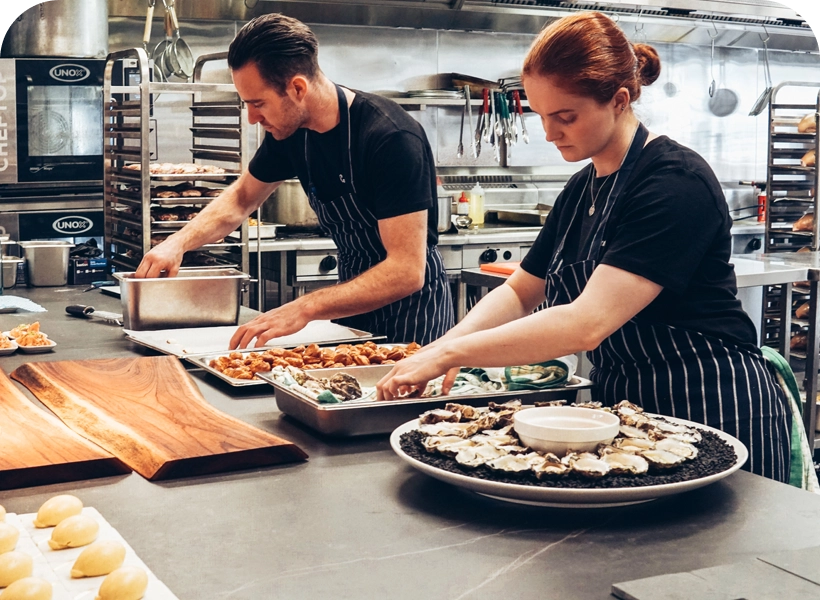
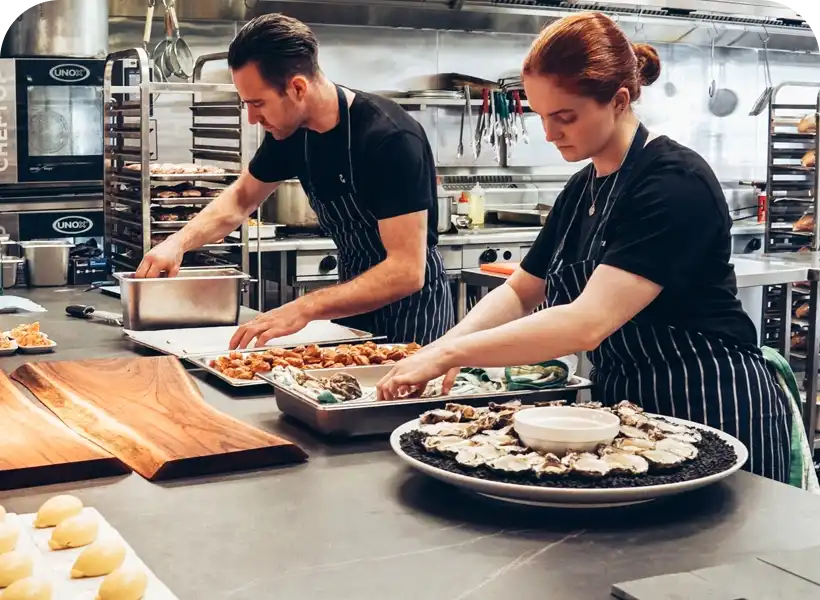
image compressed

Changed region(s): [[0.4268, 0.57, 0.4573, 0.6]]

diff --git a/case-studies.html b/case-studies.html
@@ -4,86 +4,102 @@
     <!-- Include common CSS files -->
 
     <link rel="stylesheet" href="css/style.css" />
-  
   </head>
   <body>
-     <!-- preloader -->
-  <div id="preloader">
-    <div id="loader"></div>
-  </div>
+    <!-- preloader -->
+    <div id="preloader">
+      <div id="loader"></div>
+    </div>
     <!-- Navbar placeholder -->
     <div id="navbar"></div>
 
-
-
-
-    
     <!-- case study page content start-->
     <div class="container">
       <div class="case_study_section mt-5">
-<div class="case_story">
-  <h1 class="fw-bold text-center">Polaris ERP:Real-Life Success Stories And Case Studies</h1>
-</div>
-<div class="text-center mx-auto">
-  <p class="fs-5">Explore success stories of renowned establishments that have harnessed the power of Polaris ERP to streamline operations, boost productivity, and drive unprecedented growth.</p>
-</div>
+        <div class="case_story">
+          <h1 class="fw-bold text-center">
+            Polaris ERP:Real-Life Success Stories And Case Studies
+          </h1>
+        </div>
+        <div class="text-center mx-auto">
+          <p class="fs-5">
+            Explore success stories of renowned establishments that have
+            harnessed the power of Polaris ERP to streamline operations, boost
+            productivity, and drive unprecedented growth.
+          </p>
+        </div>
 
-<!-- all sucess stories -->
+        <!-- all sucess stories -->
 
-<div class="all_success_story mt-5">
-  <div class="row">
-    <div class="col-lg-6 col-md-6 col-sm-6 col-12 image-container">
-      <a href="./case-studies-portfolio.html"><img class="w-100 hover-image" src="../images/case_study/chinese-palace-restaurant.webp" alt="chinese-palace-restaurant"></a>
-    <div class="overlay-slide"><h3 class="fw-bold">Chinese Palace Restaurant Group</h3>
-    <p class="fs-5 overlay_ent text-center">Enterprise Restaurant Group</p>
-  </div>
-    </div>
-    <div class="col-lg-3 col-md-3 col-sm-3 col-12">
-      <a href="./case-studies-portfolio.html"><img class="w-100" src="../images/case_study/Hoop-Deserts-and-Shakes.webp" alt="Hoop-Deserts-and-Shakes"></a>
+        <div class="all_success_story mt-5">
+          <div class="row">
+            <div class="col-lg-6 col-md-6 col-sm-6 col-12 image-container">
+              <a href="./case-studies-portfolio.html"
+                ><img
+                  class="w-100 hover-image"
+                  src="../images/case_study/chinese-palace-restaurant.webp"
+                  alt="chinese-palace-restaurant"
+              /></a>
+              <div class="overlay-slide">
+                <h3 class="fw-bold">Chinese Palace Restaurant Group</h3>
+                <p class="fs-5 overlay_ent text-center">
+                  Enterprise Restaurant Group
+                </p>
+              </div>
+            </div>
+            <div class="col-lg-3 col-md-3 col-sm-3 col-12">
+              <a href="./case-studies-portfolio.html"
+                ><img
+                  class="w-100"
+                  src="../images/case_study/Hoop-Deserts-and-Shakes.webp"
+                  alt="Hoop-Deserts-and-Shakes"
+              /></a>
+            </div>
+            <div class="col-lg-3 col-md-3 col-sm-3 col-12">
+              <a href="./case-studies-portfolio.html"
+                ><img
+                  class="w-100"
+                  src="../images/case_study/kelly-cajun.webp"
+                  alt="kelly-cajun"
+              /></a>
+            </div>
+          </div>
 
-    </div>
-    <div class="col-lg-3 col-md-3 col-sm-3 col-12">
-      <a href="./case-studies-portfolio.html"><img class="w-100" src="../images/case_study/kelly-cajun.webp" alt="kelly-cajun"></a>
+          <!-- second row -->
 
-    </div>
-  </div>
-
-<!-- second row -->
-
-<div class="mt-5 mb-5">
-  <div class="row">
-    <div class="col-lg-3 col-md-3 col-sm-3 col-12">
-     <a href="./case-studies-portfolio.html"><img class="w-100" src="../images/case_study/Deserts-and-Shakes.webp" alt="Deserts-and-Shakes"></a>
-    
-    </div>
-    <div class="col-lg-6 col-md-6 col-sm-6 col-12">
-      <a href="./case-studies-portfolio.html"><img class="w-100" src="../images/case_study/huffnpuff-burger.webp" alt="huffnpuff-burger"></a>
-
-      
-    </div>
-    <div class="col-lg-3 col-md-3 col-sm-3 col-12">
-      <a href="./case-studies-portfolio.html"><img class="w-100" src="../images/case_study/The-Qasab-Turkish-Cuisinewebp.webp" alt="The-Qasab-Turkish-Cuisinewebp"></a>
-
-      
-    </div>
-  </div>
-</div>
-</div>
-
-
+          <div class="mt-5 mb-5">
+            <div class="row">
+              <div class="col-lg-3 col-md-3 col-sm-3 col-12">
+                <a href="./case-studies-portfolio.html"
+                  ><img
+                    class="w-100"
+                    src="../images/case_study/Deserts-and-Shakes.webp"
+                    alt="Deserts-and-Shakes"
+                /></a>
+              </div>
+              <div class="col-lg-6 col-md-6 col-sm-6 col-12">
+                <a href="./case-studies-portfolio.html"
+                  ><img
+                    class="w-100"
+                    src="../images/case_study/huffnpuff-burger.webp"
+                    alt="huffnpuff-burger"
+                /></a>
+              </div>
+              <div class="col-lg-3 col-md-3 col-sm-3 col-12">
+                <a href="./case-studies-portfolio.html"
+                  ><img
+                    class="w-100"
+                    src="../images/case_study/The-Qasab-Turkish-Cuisinewebp.webp"
+                    alt="The-Qasab-Turkish-Cuisinewebp"
+                /></a>
+              </div>
+            </div>
+          </div>
+        </div>
       </div>
- 
     </div>
 
-
-
-
-
-
-
-   <!-- case study page content end-->
-
-
+    <!-- case study page content end-->
 
     <!-- Foooter placeholder -->
     <div id="footer"></div>
@@ -105,13 +121,13 @@
       }
 
       loadCommonContent();
-       // preloader 
-    window.addEventListener('load', function () {
-  const preloader = document.getElementById('preloader');
-  preloader.style.display = 'none';
-});
+      // preloader
+      window.addEventListener("load", function () {
+        const preloader = document.getElementById("preloader");
+        preloader.style.display = "none";
+      });
     </script>
-     <!-- Boostrap js CND  -->
-     <script src="https://cdn.jsdelivr.net/npm/bootstrap@5.2.3/dist/js/bootstrap.bundle.min.js"></script>
+    <!-- Boostrap js CND  -->
+    <script src="https://cdn.jsdelivr.net/npm/bootstrap@5.2.3/dist/js/bootstrap.bundle.min.js"></script>
   </body>
 </html>

diff --git a/case-studies-portfolio.html b/case-studies-portfolio.html
@@ -319,7 +319,7 @@ With more than 42 years of experience in the food industry and overwhelming supp
       <div class="col-lg-6 col-md-6 col-sm-6 col-12">
     <div class="row">
       <div class="col-lg-6 col-md-6 col-sm-6 col-6">
-        <img src="./images/case_study/benefits-dashbaord.png" class="img-fluid p-2">
+        <img src="./images/case_study/benefits-dashbaord.webp" class="img-fluid p-2">
 
         <img src="./images/case_study/user-frame.webp" class="img-fluid p-2">
       </div>
@@ -411,7 +411,7 @@ With more than 42 years of experience in the food industry and overwhelming supp
 
     <div class="col-lg-6 col-md-6 col-sm-6 col-12">
       <div class="">
-        <img src="./images/case_study/pos-payment-1.png" class="img-fluid p-5 w-75">
+        <img src="images/case_study/pos-payment-1.webp" class="img-fluid p-5 w-75">
       </div>
         </div>
   
@@ -508,12 +508,12 @@ With more than 42 years of experience in the food industry and overwhelming supp
   <div class="row">
     <div class="col-lg-6 col-md-6 col-sm-6 col-12">
 <div>
-  <img src="./images/case_study/umami-team.jpg" class="img-fluid" style="height: 590px;">
+  <img src="./images/case_study/umami-team.webp" class="img-fluid" style="height: 590px;">
 </div>
     </div>
     <div class="col-lg-6 col-md-6 col-sm-6 col-12">
       <div>
-        <img src="./images/case_study/koryo-team.jpg" class="img-fluid" style="height: 590px;" >
+        <img src="./images/case_study/koryo-team.webp" class="img-fluid" style="height: 590px;" >
       </div>
     </div>
   </div>
@@ -521,12 +521,12 @@ With more than 42 years of experience in the food industry and overwhelming supp
   <div class="row mt-5">
     <div class="col-lg-6 col-md-6 col-sm-6 col-12">
 <div>
-  <img src="./images/case_study/han-shi-fu.jpg" class="img-fluid" style="height: 590px;">
+  <img src="./images/case_study/han-shi-fu.webp" class="img-fluid" style="height: 590px;">
 </div>
     </div>
     <div class="col-lg-6 col-md-6 col-sm-6 col-12">
       <div>
-        <img src="./images/case_study/han-shi-fu-inside.jpg" class="img-fluid" style="height: 590px;">
+        <img src="./images/case_study/han-shi-fu-inside.webp" class="img-fluid" style="height: 590px;">
       </div>
     </div>
   </div>
@@ -534,12 +534,12 @@ With more than 42 years of experience in the food industry and overwhelming supp
   <div class="row mt-5">
     <div class="col-lg-6 col-md-6 col-sm-6 col-12">
 <div>
-  <img src="./images/case_study/chinese-palace-food.jpg" class="img-fluid" style="height: 590px;">
+  <img src="./images/case_study/chinese-palace-food.webp" class="img-fluid" style="height: 590px;">
 </div>
     </div>
     <div class="col-lg-6 col-md-6 col-sm-6 col-12">
       <div>
-        <img src="./images/case_study/Chinese-Palace-food-1.jpg" class="img-fluid" style="height: 590px;">
+        <img src="./images/case_study/Chinese-Palace-food-1.webp" class="img-fluid" style="height: 590px;">
       </div>
     </div>
   </div>

diff --git a/benefits.html b/benefits.html
@@ -35,7 +35,7 @@
       </div>
       <div class="col-md-6 col-sm-6 col-12">
         <div class="image benefit_start">
-          <img src="../images/Benefits/benefits-business_growth.png" class="img-fluid" alt="Image">
+          <img src="images/Benefits/benefits-business_growth.webp" class="img-fluid" alt="Image">
         </div>
       </div>
       </div>
@@ -54,7 +54,7 @@
       <div class="row row-cols-1 row-cols-md-3 g-4 mx-auto">
         <div class="col-md-4 col-12">
           <div class="card h-100">
-            <img src="../images/Benefits/benefits_mastershef.webp" class="card-img-top" alt="mastershef">
+            <img src="images/Benefits/benefits_mastershef.webp" class="card-img-top" alt="mastershef">
             <div class="card-body p-5">
               <h5 class="card-title">Streamline Operations, Amplify Efficiency</h5>
               <p class="card-text">Say goodbye to manual processes and embrace automated workflows and real-time data synchronization. Experience optimized business operations like never before.</p>
@@ -100,7 +100,7 @@
       <!-- business revenue image -->
       <div class="row">
         <div class="col-md-8 col-sm-8">
-          <div class="pt-4 ps-4"><img src="../images/Benefits/benefits-revenue.png" class="benefit_revenue"  width="353px" height="335px"></div>
+          <div class="pt-4 ps-4"><img src="images/Benefits/benefits-revenue.webp" class="benefit_revenue"  width="353px" height="335px"></div>
          <div class="mt-5 p-4"><img src="../images/Benefits/achive-more-effort-less.png" width="305px" height="105px"></div>
         </div>
   

diff --git a/features.html b/features.html
@@ -98,7 +98,7 @@
       class="row justify-content-center justify-content-lg-around align-items-center my-5 text-center text-lg-start gy-5">
       <!-- Image Container -->
       <div class="col-10 col-lg-5">
-        <img src="images/sales-vs_cogs.png" alt="">
+        <img src="images/sales-vs_cogs.webp" alt="">
       </div>
       <!-- Recipe And COGS Control Text  -->
       <div class="col-10 col-lg-5 ">
@@ -210,7 +210,7 @@
           <div class="position-absolute start-50 top-100 translate-middle">
             <img src="images/transaction-statistics-graph.webp" class="w-75 " alt="">
           </div>
-          <img src="images/finance-woman.png" alt="" class="img-fluid">
+          <img src="images/finance-woman.webp" alt="" class="img-fluid">
         </div>
       </div>
 
@@ -347,7 +347,7 @@
           <div class="position-absolute bottom-0 end-0 d-none d-lg-block">
             <img src="images/right-sign.png" alt="">
           </div>
-          <img src="images/unified-platform.png" alt="" class="img-fluid">
+          <img src="images/unified-platform.webp" alt="" class="img-fluid">
         </div>
       </div>
       <!-- Unified Platform Text  -->

diff --git a/Index.html b/Index.html
@@ -57,13 +57,13 @@
               <img
                 id="sales-dashboard-img"
                 class="d-none d-sm-block   move-on-hover-top"
-                src="images//Home/home-page-main-slide-sales-dashbaord-polaris-technology.png"
-                alt="home-page-main-slide-sales-dashbaord-polaris-technology.png"
+                src="images//Home/home-page-main-slide-sales-dashbaord-polaris-technology.webp"
+                alt="home-page-main-slide-sales-dashbaord-polaris-technology.webp"
               />
               <img
                 id="home-page-main-slide-message"
                 class="d-none d-sm-block  move-on-hover-top"
-                src="/images/Home/home-page-main-slide-message-1-polaris-technology.png"
+                src="/images/Home/home-page-main-slide-message-1-polaris-technology.webp"
                 alt=""
               />
             </span>
